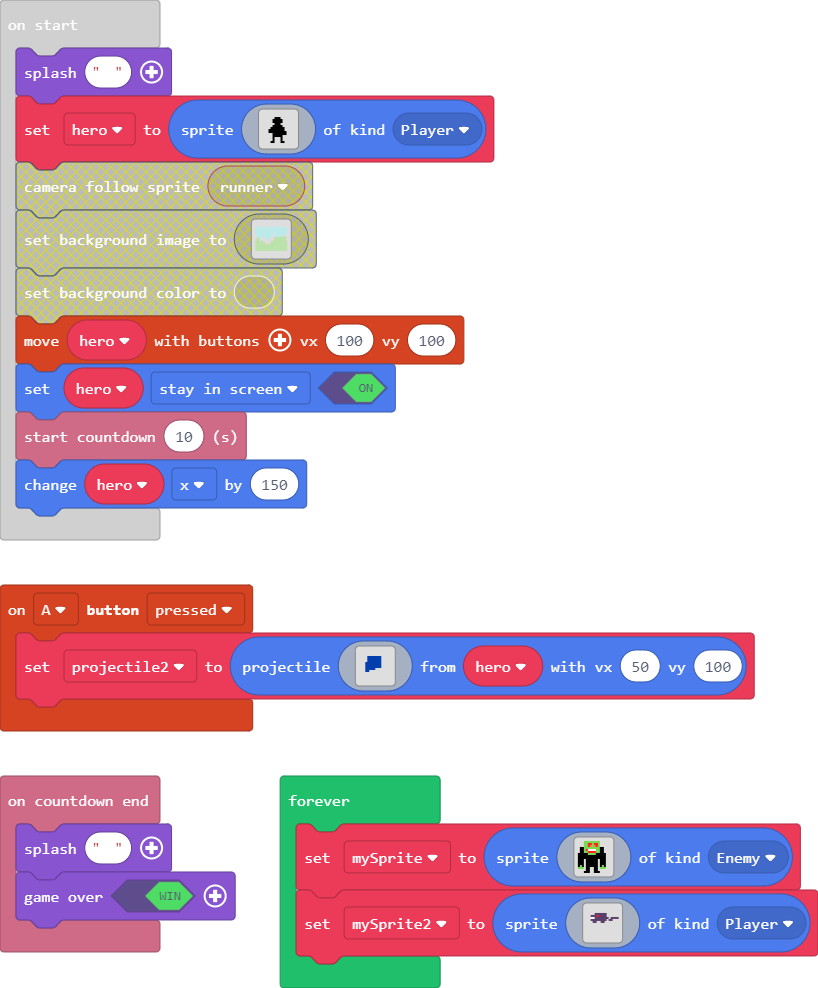
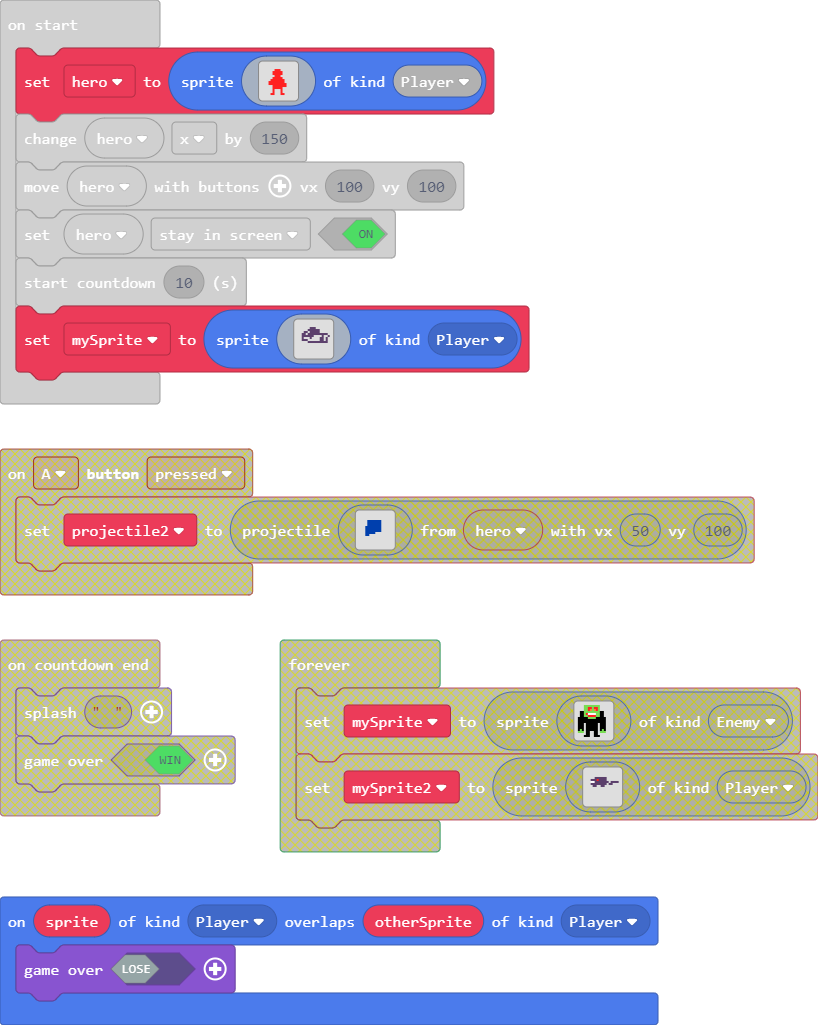
Update main.blocks, main.ts

diff --git a/main.ts b/main.ts
@@ -1,84 +1,39 @@
-controller.A.onEvent(ControllerButtonEvent.Pressed, function () {
-    projectile2 = sprites.createProjectileFromSprite(img`
-. . . . . . . . . . . . . . . . 
-. . . . . . . . . . . . . . . . 
-. . . . . . . . . . . . . . . . 
-. . . . 8 8 8 8 8 8 8 . . . . . 
-. . . . 8 8 8 8 8 8 8 . . . . . 
-. . . . 8 8 8 8 8 8 8 . . . . . 
-. . . 8 8 8 8 8 8 8 8 . . . . . 
-. . . 8 8 8 8 8 8 8 8 . . . . . 
-. . . 8 8 8 8 8 8 8 8 . . . . . 
-. . . 8 8 8 8 8 . . . . . . . . 
-. . . 8 8 . . . . . . . . . . . 
-. . . . . . . . . . . . . . . . 
-. . . . . . . . . . . . . . . . 
-. . . . . . . . . . . . . . . . 
-. . . . . . . . . . . . . . . . 
-. . . . . . . . . . . . . . . . 
-`, hero, 50, 100)
+sprites.onOverlap(SpriteKind.Player, SpriteKind.Player, function (sprite, otherSprite) {
+    game.over(false)
 })
-info.onCountdownEnd(function () {
-    game.splash("")
-    game.over(true)
-})
-let mySprite2: Sprite = null
-let mySprite: Sprite = null
-let projectile2: Sprite = null
-let hero: Sprite = null
-game.splash("")
-hero = sprites.create(img`
+let hero = sprites.create(img`
 . . . . . . . . . . . . . . . . 
 . . . . . . . . . . . . . . . . 
-. . . . . . f f f . . . . . . . 
-. . . . . f f f f f . . . . . . 
-. . . . . f f f f f . . . . . . 
-. . . . . . f f f . . . . . . . 
-. . . . . f f f f f . . . . . . 
-. . . . f f f f f f f . . . . . 
-. . . f f f f f f f f . . . . . 
-. . . f f f f f f f f f . . . . 
-. . . . . f f f f f f f . . . . 
-. . . . . f f f f f . . . . . . 
-. . . . . f . . . f . . . . . . 
-. . . . . f . . . f . . . . . . 
-. . . . f f . . . f f . . . . . 
+. . . . . . 2 2 2 . . . . . . . 
+. . . . . 2 2 2 2 2 . . . . . . 
+. . . . . 2 2 2 2 2 . . . . . . 
+. . . . . . 2 2 2 . . . . . . . 
+. . . . . 2 2 2 2 2 . . . . . . 
+. . . . 2 2 2 2 2 2 2 . . . . . 
+. . . 2 2 2 2 2 2 2 2 . . . . . 
+. . . 2 2 2 2 2 2 2 2 2 . . . . 
+. . . . . 2 2 2 2 2 2 2 . . . . 
+. . . . . 2 2 2 2 2 . . . . . . 
+. . . . . 2 . . . 2 . . . . . . 
+. . . . . 2 . . . 2 . . . . . . 
+. . . . 2 2 . . . 2 2 . . . . . 
 . . . . . . . . . . . . . . . . 
 `, SpriteKind.Player)
 hero.x += 150
 controller.moveSprite(hero, 100, 100)
 hero.setFlag(SpriteFlag.StayInScreen, true)
 info.startCountdown(10)
-forever(function () {
-    mySprite = sprites.create(img`
-. . . 7 7 7 7 7 7 7 7 . . . . . 
-. . . 7 7 2 2 7 2 2 7 . . . . . 
-. . . 7 7 2 4 7 4 2 7 . . . . . 
-. f f 7 7 7 7 7 7 7 7 f f . . . 
-. f f 7 2 1 1 1 1 7 7 f f . . . 
-. f f 7 7 2 2 2 2 7 7 f f . . . 
-f f f f f 7 7 7 7 f f f f f . . 
-f f f f f f f f f f f f f f . . 
-f f f f f f f f f f f f f f . . 
-f f f . f f f f f f . f f f . . 
-f f f . f f f f f f . f f f . . 
-f f f . f f f f f f . f f f . . 
-f 7 f . f f f f f f . f 7 f . . 
-7 7 7 . f f . . f f . 7 7 7 . . 
-. . . . f f . . f f . . . . . . 
-. . . f f f . . f f f . . . . . 
-`, SpriteKind.Enemy)
-    mySprite2 = sprites.create(img`
+let mySprite = sprites.create(img`
 . . . . . . . . . . . . . . . . 
 . . . . . . . . . . . . . . . . 
-. . . . . . . . . . . . . . . . 
-. . . . c c c c c c . . . . . . 
-. . c c c 2 c c c c . . . . . . 
-. . 1 1 c c c c c c c . c c c c 
-. . c c c c c c c c . c c . . . 
-. . . c c . . c c . . . . . . . 
-. . . . . . . . . . . . . . . . 
-. . . . . . . . . . . . . . . . 
+. . . . . . c c c . . . . . . . 
+. . . . . c c c c c c . . . . . 
+. . . c c . c c c c c . . . . . 
+. . c c . c c c c c c c c c c . 
+. . c c c c c c . . . . c . . c 
+. . c . . . c . . . . c c . c . 
+. . c c c . . . . . . c c . c . 
+. . . . . c c c c c c c c c c . 
 . . . . . . . . . . . . . . . . 
 . . . . . . . . . . . . . . . . 
 . . . . . . . . . . . . . . . . 
@@ -86,4 +41,3 @@ f 7 f . f f f f f f . f 7 f . .
 . . . . . . . . . . . . . . . . 
 . . . . . . . . . . . . . . . . 
 `, SpriteKind.Player)
-})
